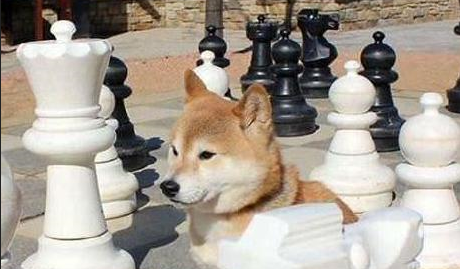
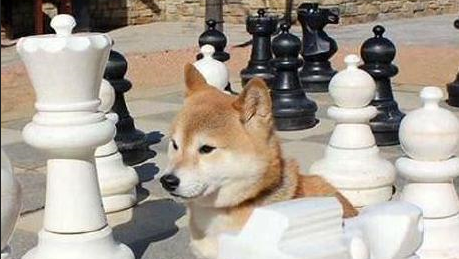
inclusão de novos assets com informação da equipe

diff --git a/src/components/Chess.vue b/src/components/Chess.vue
@@ -202,15 +202,8 @@
             </div>
 
             <div class="informations" v-if="this.idGame">
-                <img src="../assets/imgs/dog_in_chess.png" 
-                    title='Desenvolvedores: 
-                    Caio Wey 
-                    Igor Lisboa 
-                    Matheus Baldas 
-                    Milena Veríssimo 
-                    Victor Matheus Pereira 
-                    Victor Marques'
-                >
+                <img v-if='this.information' src="../assets/imgs/dog_in_chess.png" title='Jogar é fácil...' @click="changeInformation()">
+                <img v-else src="../assets/imgs/dog_in_study.png" title='...sabendo as regras' @click="changeInformation()">
                 <h3>SALA {{this.idGame}}</h3>
             </div>
             
@@ -224,6 +217,16 @@
                     </div> 
                 </div>
             </div>
+
+            <img src="../assets/imgs/dog_icon.png" class="icon-equip"  v-if="this.idGame"
+                title='Desenvolvedores: 
+                    Caio Wey 
+                    Igor Lisboa 
+                    Matheus Baldas 
+                    Milena Veríssimo 
+                    Victor Matheus Pereira 
+                    Victor Marques'
+            >
 
             <div class="button-area" v-if="this.idGame">
                 <button class="des" :class="{'disabled': !this.turn}" :disabled='!this.turn' @click="openModal('des')">DESISTÊNCIA</button>
@@ -299,7 +302,8 @@
                 //configuração jogador
                 player: "branco",
                 playerconf:{ladoId:0, tipoId:0},
-                kingSquare: undefined, 
+                kingSquare: undefined,
+                information: true, 
                 //configuração jogadas
                 jogada: {posicaoPrevia:"", posicao:"", peca:"", posicoes:{}},
                 mapJogada: new Map()              
@@ -308,8 +312,9 @@
         destroyed(){
             this.socket.on("disconnect");
         },
+        // iniciar modal de iniciação ao carregar página 
         mounted(){
-            this.showModalIniciacao();                 // iniciar modal de iniciação ao carregar página    
+            this.showModalIniciacao();                    
         },
         methods: { 
 
@@ -609,37 +614,7 @@
                 this.blackTurn = !this.blackTurn;
             },
 
-            //criação do socket
-            createSocket: function(){          
-            this.socket = io(process.env.VUE_APP_API_URL, {query:"jogador=" + this.idGame + "-" + this.playerconf.ladoId});
-            this.socket.on("connect", () => {
-
-                this.socket.on('adversarioEntrou', () =>{
-                    this.isModalWaitVisible = false;
-                })
-
-                this.socket.on("jogadaRealizada",(data) =>{
-                    this.mapJogada.set(data.jogadaRealizada.casaDestino.casa, data.jogadaRealizada.nomeJogada);
-                    this.accomplishMove(data.jogadaRealizada.casaOrigem.casa, data.jogadaRealizada.casaDestino.casa, data.promocaoPara);
-                    if(data.chequeLadoAtual){
-                        document.getElementById(this.kingSquare).classList.add("check");
-                    }
-                })
-                this.socket.on("empateProposto", () =>{
-                     this.openModal("propostaemp")
-                })
-                this.socket.on("empatePropostoResposta", () =>{
-                   this.isModalWaitVisible=false
-                     
-                })
-                this.socket.on("jogoFinalizado", () =>{
-                   this.isModalWaitVisible=false
-                     
-                })
-
-            });
-
-            },
+            // abrir modal dos botões de ações desistência e comum acordo
             openModal:function(value){
                  const headers = {
                     'lado': this.playerconf.ladoId
@@ -704,6 +679,43 @@
                 break;
                 }
                  this.isModalConfirmationVisible = true;
+            },
+
+            // alteração de informação
+            changeInformation(){
+                this.information = !this.information;
+            },
+
+            //criação do socket
+            createSocket: function(){          
+            this.socket = io(process.env.VUE_APP_API_URL, {query:"jogador=" + this.idGame + "-" + this.playerconf.ladoId});
+            this.socket.on("connect", () => {
+
+                this.socket.on('adversarioEntrou', () =>{
+                    this.isModalWaitVisible = false;
+                })
+
+                this.socket.on("jogadaRealizada",(data) =>{
+                    this.mapJogada.set(data.jogadaRealizada.casaDestino.casa, data.jogadaRealizada.nomeJogada);
+                    this.accomplishMove(data.jogadaRealizada.casaOrigem.casa, data.jogadaRealizada.casaDestino.casa, data.promocaoPara);
+                    if(data.chequeLadoAtual){
+                        document.getElementById(this.kingSquare).classList.add("check");
+                    }
+                })
+                this.socket.on("empateProposto", () =>{
+                     this.openModal("propostaemp")
+                })
+                this.socket.on("empatePropostoResposta", () =>{
+                   this.isModalWaitVisible=false
+                     
+                })
+                this.socket.on("jogoFinalizado", () =>{
+                   this.isModalWaitVisible=false
+                     
+                })
+
+            });
+
             }
             
         }
@@ -885,6 +897,19 @@
         color: #ffff;
         background-color:#000;
     }
+    /****************** informações da equipe ************************/
+    .icon-equip
+    {
+        float: right;
+        justify-content: space-between;
+        display: block;
+        margin-left: 82.5%;
+        position: absolute;
+        width: 10vw;
+        padding-bottom: 38%;
+        top: 35%;
+        opacity: 0.9;
+    }
     /****************** botões de ações ************************/
     .button-area
     {
@@ -923,7 +948,7 @@
         color: #db2209;
         
     }
-    /****************** card de turno ************************/
+    /****************** area de informações ************************/
     .informations
     {
         float: right;
